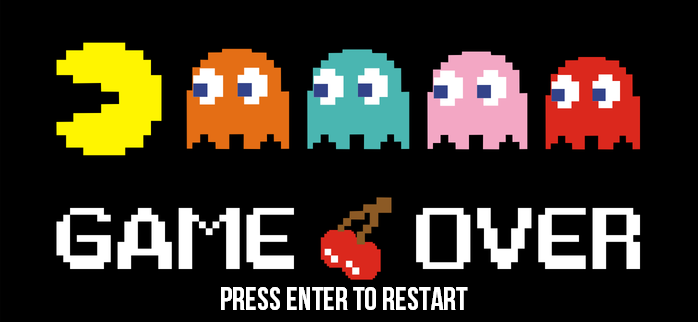
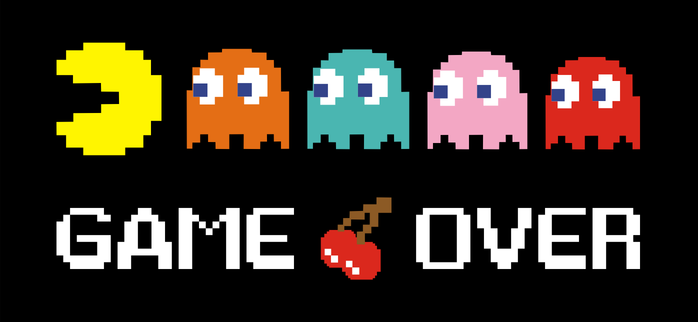
changed gameover and game won

Changed region(s): [[0.3009, 0.8696, 0.692, 0.9627]]

diff --git a/PacMan-JR-DM-KB-master/PacMan/PacManGame/ScoreSprite.cs b/PacMan-JR-DM-KB-master/PacMan/PacManGame/ScoreSprite.cs
@@ -66,7 +66,7 @@ namespace PacManGame
                 spriteBatch.Draw(lives, new Rectangle(780, 200, 40, 40), Color.White);
             } else if (game.PacManGame.Score.Lives == 0)
             {
-                spriteBatch.Draw(gameOver, new Rectangle(0, 0, 950, 736), Color.White);
+                spriteBatch.Draw(gameOver, new Rectangle(0, 0, 736, 736), Color.White);
             } 
             spriteBatch.End();
             base.Draw(gameTime);

diff --git a/PacMan-JR-DM-KB-master/PacMan/PacManGame/Game1.cs b/PacMan-JR-DM-KB-master/PacMan/PacManGame/Game1.cs
@@ -128,9 +128,8 @@ namespace PacManGame
 
         private void Reset()
         {
-            this.PacManGame.Score.Lives = 3;
-            this.PacManGame.Score.Score = 0;
-            Initialize();
+            Exit();
+
         }
     }
 }
